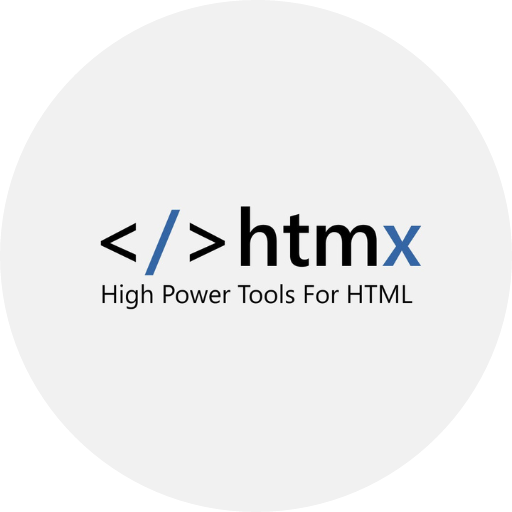
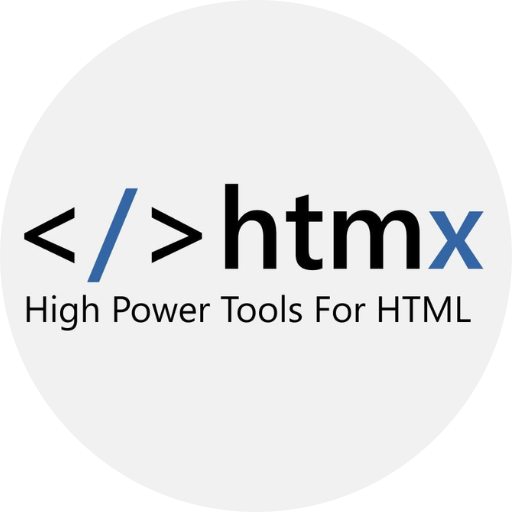
mame komplet obrazky

Changed region(s): [[0.0312, 0.3438, 0.9375, 0.6562]]

diff --git a/index.html b/index.html
@@ -22,11 +22,12 @@
     <main class="box has-text-centered container is-max-desktop">
         <h3 class="subtitle is-3 p-3">Vitaj na mojej osobnej stránke.</h3>
         <p class="is-size-5 pr-3 pl-3 m-6">Som developer so zameraním na tvorbu responzívneho, čoskoro reaktívneho webu, pomocou vlastného kódu.</p>
-        <p class="box is-size-5 pr-6 pl-6 ml-4 mr-4">Žiaden WordPress. Iba ja, Bulma CSS a ChatGPT 😉</p>
+        <p class="is-size-5 pr-6 pl-6 ml-4 mr-4">Žiaden WordPress. Iba ja, Bulma CSS a ChatGPT 😉</p>
         <p class="is-size-5 p-3 m-3">K programovaniu som sa dostal cez brata, ktorý mi odporučil knihu "Java bez predchádzajúcich skúseností". Momentálne som samouk na voľnej nohe, väčšinu vedomostí čerpám z kurzov (vďaka Ti, <a href="http://webrebel.sk/" target="_blank" rel="noopener">Yablko</a>). V minulosti som pracoval v agilnom tíme, ktorý vyvíjal SCRUM metodikou MS PowerApps aplikácie.</p>
 
-        <h4 class="subtitle is-4">Čo používam na tvorbu frontendu?</h4>
+        
         <section class="box p-5 m-6">
+            <h4 class="subtitle is-4">Čo používam na tvorbu frontendu?</h4>
             <div class="columns m-5">
                 <div class="box column m-1">
                 HTML
@@ -34,7 +35,7 @@
                 </div>
                 <div class="box column m-1">
                 HTMX
-                <img class="mt-2" src="images/htmx-rounded-bigger.png" alt="htmx icon">
+                <img class="mt-2" src="images/htmx-rounded.png" alt="htmx icon">
                 </div>
                 <div class="box column m-1">
                 CSS
@@ -47,26 +48,33 @@
             </div>
         </section>
 
-        <h4 class="subtitle is-4 mt-6">Moja vízia do budúcna</h4>
-        <section class="box p-5 m-6">
+        
+        <section class="p-5 m-6">
+            <h4 class="subtitle is-4 mt-6">Moja vízia do budúcna</h4>
             <div class="columns m-5">
                 <div class="box column m-1">
                     Java
+                    <img class="mt-2" src="images/java_original_wordmark_logo_icon_146459.png" alt="java icon">
                 </div>
                 <div class="box column m-1">
                     Ruby on Rails
+                    <img class="mt-2" src="images/rails.png" alt="ruby icon">
                 </div>
                 <div class="box column m-1">
                     jQuery
+                    <img class="mt-2" src="images/jquery.png" alt="jquery icon">
                 </div>
                 <div class="box column m-1">
                     Vue.js
+                    <img class="mt-2" src="images/vue.png" alt="vue.js icon">
                 </div>
                 <div class="box column m-1">
                     React
+                    <img class="mt-2" src="images/react.png" alt="react icon">
                 </div>
                 <div class="box column m-1">
                     Tailwind CSS
+                    <img class="mt-2" src="images/tailwind.png" alt="tailwind css icon">
                 </div>
             </div>
         </section>
